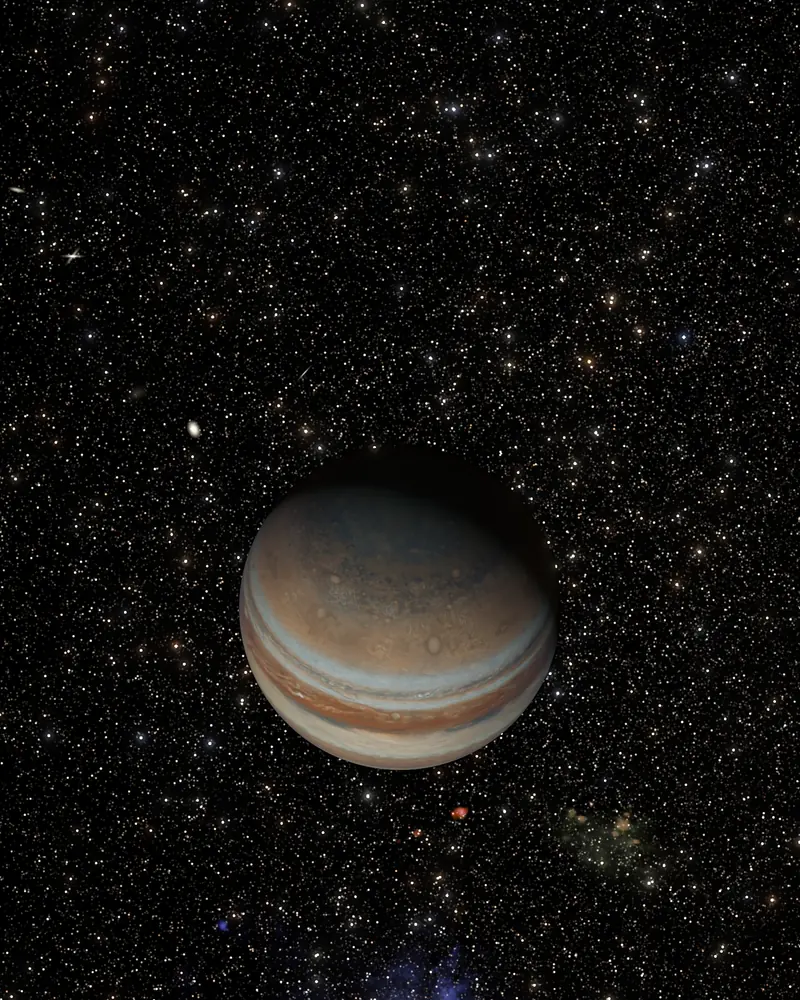
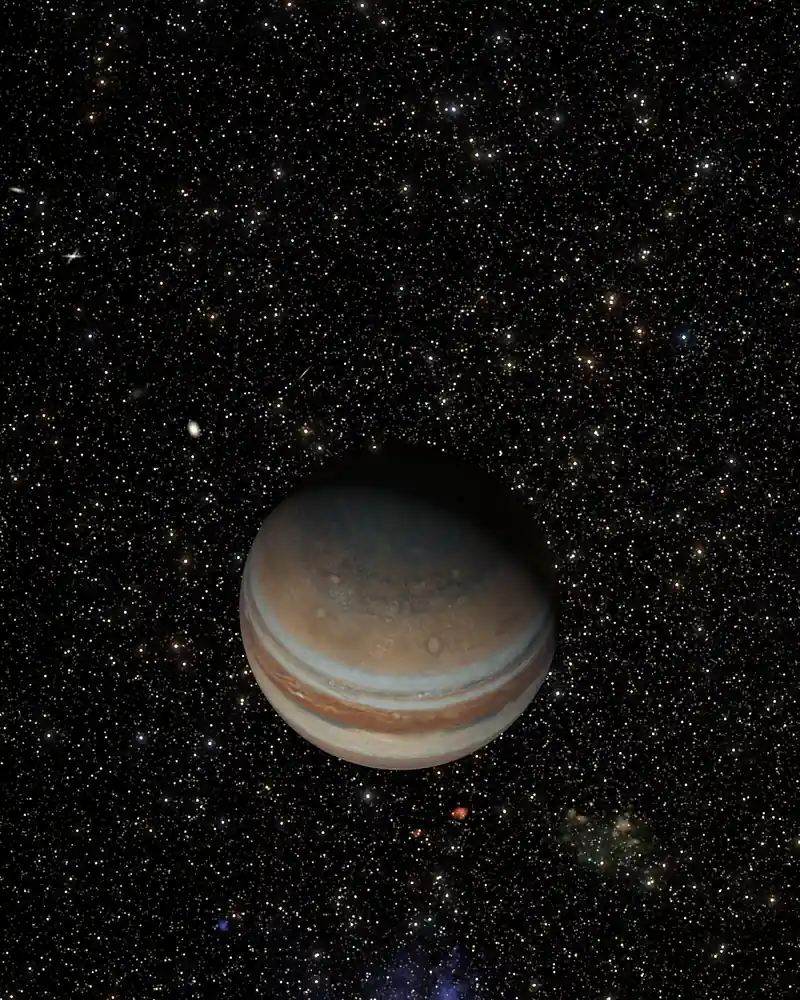
A dense row's wider WebP files take SHOT_ENCODING.denseWebp (quality 30, lossy alpha 70), since the lossless alpha was most of a point cut-out's bytes: the DESI spine's 686 WebP goes from 1.41 MB to 662 KB and the filaments' 880 from 1.08 MB to 500 KB.

diff --git a/tools/site/shootSiteShots.ts b/tools/site/shootSiteShots.ts
@@ -29,7 +29,7 @@ import { shotFrame } from './utils/shotFrame';
 
 const MASTERS_DIR = 'data/shots/site';
 const OUT_DIR = 'packages/website/src/assets/shots';
-const { dpr: DPR, avif: AVIF, webp: WEBP } = SHOT_ENCODING;
+const { dpr: DPR, avif: AVIF, webp: WEBP, denseWebp: DENSE_WEBP } = SHOT_ENCODING;
 
 const args = process.argv.slice(2);
 const valueOf = (flag: string) => (args.includes(flag) ? args[args.indexOf(flag) + 1] : undefined);
@@ -145,14 +145,14 @@ try {
       for (const width of shot.widths) {
         const resized = frame.clone().resize({ width, kernel: 'lanczos3' });
         const avif = join(OUT_DIR, `${name}-${width}.avif`);
-        const quality = width > narrowest ? (shot.denseQuality ?? AVIF.quality) : AVIF.quality;
+        const denseQuality = width > narrowest ? shot.denseQuality : undefined;
         await resized
           .clone()
-          .avif({ ...AVIF, quality })
+          .avif({ ...AVIF, quality: denseQuality ?? AVIF.quality })
           .toFile(avif);
         await resized
           .clone()
-          .webp(WEBP)
+          .webp(denseQuality === undefined ? WEBP : DENSE_WEBP)
           .toFile(join(OUT_DIR, `${name}-${width}.webp`));
         sizes.push(`${width}: ${Math.round(statSync(avif).size / 1024)} KB`);
       }

diff --git a/packages/website/src/@types/SiteShot.d.ts b/packages/website/src/@types/SiteShot.d.ts
@@ -6,8 +6,9 @@ import type { SiteShotSettings } from './SiteShotSettings';
  * `npm run site:shots` needs to take it again. `size` is the viewport in CSS
  * pixels (shot at `dpr` times that, 2 when absent), `widths` the files written, widest first being
  * no wider than the shot. `denseQuality` is the AVIF quality of every width
- * above the narrowest, for a row whose wider files are only ever drawn at 2x
- * or more, where coarser quality does not show. Its label (components/shared/media/ShotCaption/ShotCaption.tsx): `title`
+ * above the narrowest, which also take the coarser WebP of SHOT_ENCODING's
+ * `denseWebp`, for a row whose wider files are only ever drawn at 2x or more,
+ * where coarser quality does not show. Its label (components/shared/media/ShotCaption/ShotCaption.tsx): `title`
  * names what is shown, `caption` adds a sentence, `drawn` says what is data
  * and what is drawn, `credit` names third-party imagery; no full stop on the
  * first and the last.

diff --git a/tools/site/shotEncoding.ts b/tools/site/shotEncoding.ts
@@ -2,10 +2,14 @@
  * How every still of the site is taken and written (shootSiteShots.ts,
  * shootWorkbench.ts): at twice the window, and at the qualities measured on
  * the app's frames, where AVIF 50 holds a star field and WebP needs 76 to
- * match it.
+ * match it. `denseWebp` is the WebP of a row's `denseQuality` widths: its
+ * alpha is lossy too, since the lossless alpha of a cut-out of fine points was
+ * most of its bytes (the DESI spine 1.4 MB at 686); below alpha 70 the
+ * filaments' faint haze bands.
  */
 export const SHOT_ENCODING = {
   dpr: 2,
   avif: { quality: 50, effort: 9 },
   webp: { quality: 76, effort: 6 },
+  denseWebp: { quality: 30, alphaQuality: 70, effort: 6 },
 } as const;

diff --git a/tools/site/README.md b/tools/site/README.md
@@ -35,7 +35,7 @@ One-shot generators for the website's committed assets and its hero media. Each 
 - The last step sets the link-preview card (`packages/website/src/assets/og-card.jpg`) from the `og-card` row, in the browser so the wordmark is the repo's Cormorant.
 - Look at every picture after a run. Surface imagery streams in late (`settleMs`), and `tour-cosmic-web` is taken from a tour that keeps turning, so its framing differs a little each time.
 - Budget: at most about 400 KB for a row's largest file. The runner prints each file's size.
-- A row's `denseQuality` lowers the AVIF quality of every width above its narrowest. Use it only where the wider files are drawn at 2x or more (the upright cuts a phone gets), and look at the result at that density.
+- A row's `denseQuality` lowers the AVIF quality of every width above its narrowest, and those widths' WebP takes `denseWebp` from `shotEncoding.ts` (quality 30, alpha 70: a lossless alpha was most of a point cut-out's bytes). Use it only where the wider files are drawn at 2x or more (the upright cuts a phone gets), and look at the result at that density.
 - **Trying a framing.** `npm run site:shots -- --url <app> --try '<hash body>' [--settings '<json>'] [--size 1600x1000] [--query dome] [--name n] [--out dir]` takes one picture that is in no row, with the same settings a row takes (`exposure` and `matte` among them), and writes `<out>/<name>.png` (the temp folder's `site-shot-try/` by default), cropped as the row would be, with `<name>-shadow.png` beside it for a `shadow` setting. It touches neither the manifest nor the assets: try several framings, then write the one you keep as a row.
 
 ## Loops
